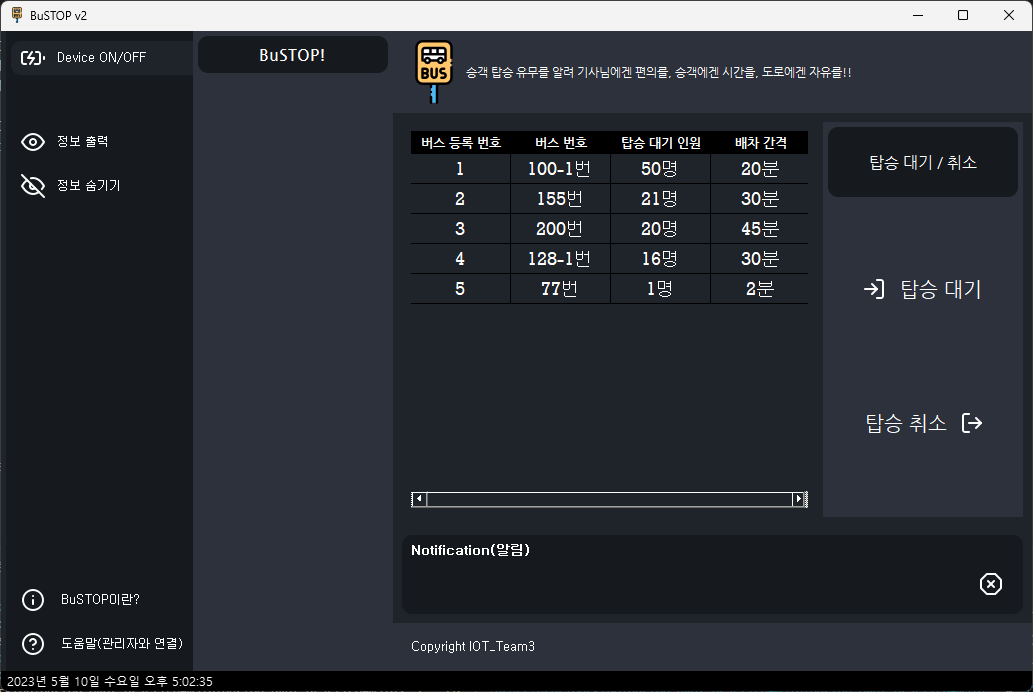
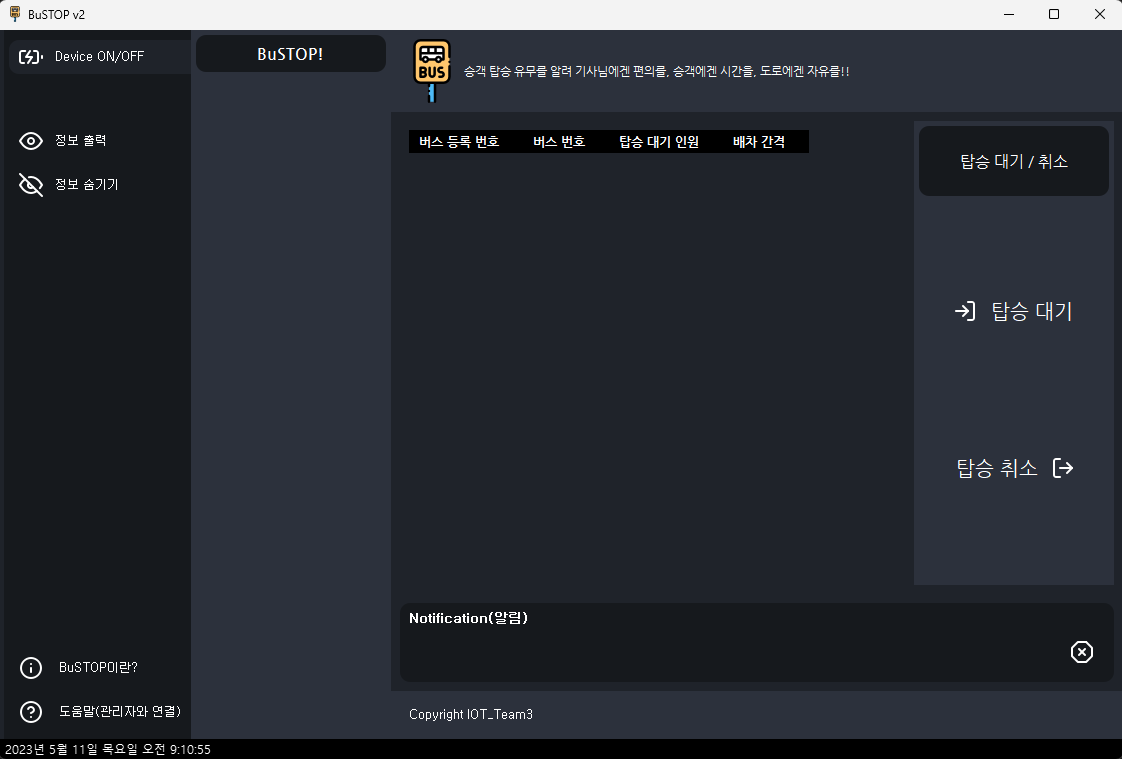
23_05_11 upload image

diff --git a/bustop.py b/bustop.py
@@ -273,7 +273,7 @@ class qtApp(QMainWindow):
             header_style="QHeaderView::section {background-color: %s; text-align: center;}" %QColor(0,0,0).name()
             self.BusInfor.horizontalHeader().setStyleSheet(header_style)
             qtApp.saveBattery = False
-            self.timer.start(1) # 장치가 켜지면서 timer 실행
+            #self.timer.start(1) # 장치가 켜지면서 timer 실행
         else: # 장치가 꺼진 상태일 때
             self.BusInfor.setRowCount(0)
             self.LblNotification.setText("")
